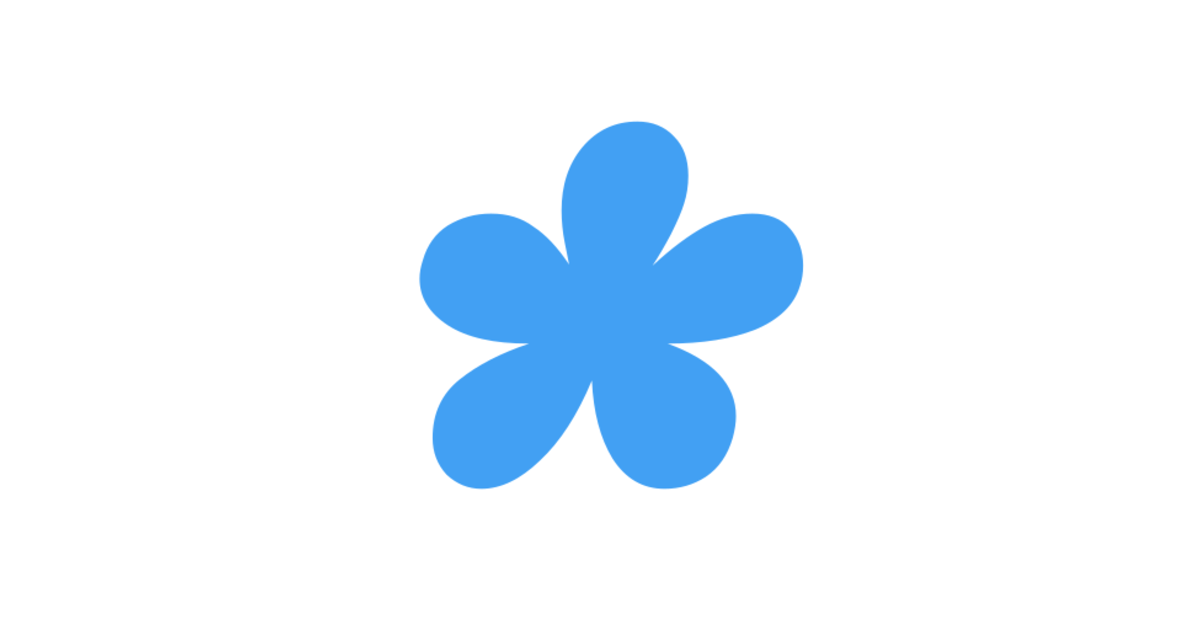
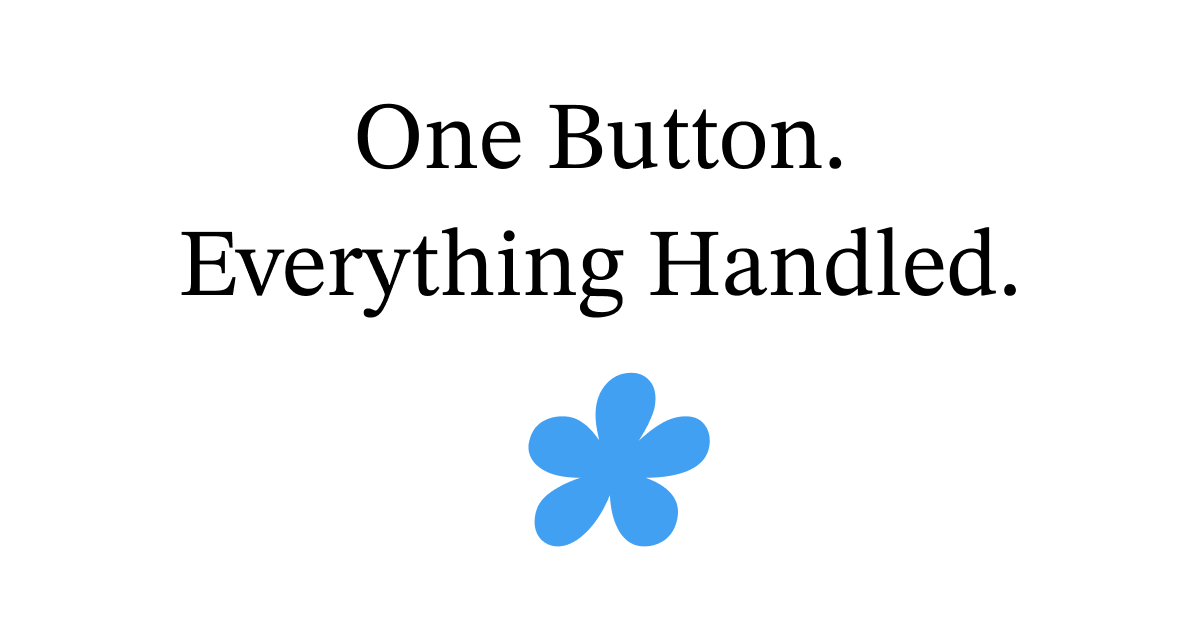
add actual og image

Changed region(s): [[0.1542, 0.1508, 0.8633, 0.8746], [0.2775, 0.181, 0.4317, 0.2714], [0.3083, 0.1508, 0.3392, 0.181]]

diff --git a/app/layout.tsx b/app/layout.tsx
@@ -1,8 +1,8 @@
-import type { Metadata } from 'next'
-import './globals.css'
+import type { Metadata } from "next";
+import "./globals.css";
 
 export const metadata: Metadata = {
-  metadataBase: new URL("https://tryonetap.com"),
+  metadataBase: new URL("https://onetap.jonathanb.dk"),
   title: {
     default: "OneTap - A button for your brain",
     template: "%s | OneTap",
@@ -47,7 +47,8 @@ export const metadata: Metadata = {
   twitter: {
     card: "summary_large_image",
     title: "OneTap - A button for your brain",
-    description: "Tap. Speak. It remembers everything, surfacing what matters when it matters.",
+    description:
+      "Tap. Speak. It remembers everything, surfacing what matters when it matters.",
     images: ["/og-image.png"],
     creator: "@tryonetap",
   },
@@ -68,16 +69,16 @@ export const metadata: Metadata = {
     apple: "/apple-touch-icon.png",
   },
   manifest: "/site.webmanifest",
-}
+};
 
 export default function RootLayout({
   children,
 }: Readonly<{
-  children: React.ReactNode
+  children: React.ReactNode;
 }>) {
   return (
     <html lang="en">
       <body>{children}</body>
     </html>
-  )
+  );
 }
